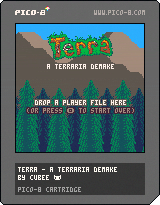
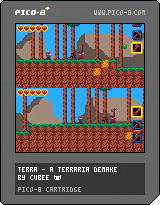
Update gfiles/pico8/carts/terra.p8.png, gfiles/pico8/carts/celeste2.p8.png, gfiles/pico8/carts/gl.p8.png, list.html Deleted gfiles/pico8/carts/ppwr.p8.png, gfiles/pico8/carts/violet.p8.png, gfiles/pico8/carts/terra.p8.png, gfiles/pico8/carts/mgl.p8.png

diff --git a/list.html b/list.html
@@ -291,9 +291,11 @@
 <a href="./gfiles/flash/?swf=zombiealienparasites.swf">Zombiealienparasites</a>
 <h2>Pico 8</h2>
 <a href="./gfiles/pico8/?celeste.p8.png">Celeste</a>
-<a href="./gfiles/pico8/?mgl.p8.png">Mega Game Launcher</a>
+<a href="./gfiles/pico8/?celeste2.p8.png">Celeste 2</a>
+<a href="./gfiles/pico8/?gl.p8.png">Game Launcher</a>
 <a href="./gfiles/pico8/?pcraft.p8.png">P.Craft</a>
 <a href="./gfiles/pico8/?slimeyjump.p8.png">Slimey Jump</a>
+<a href="./gfiles/pico8/?terra.p8.png">Terra</a>
 </div>
 </div>
 </div>
